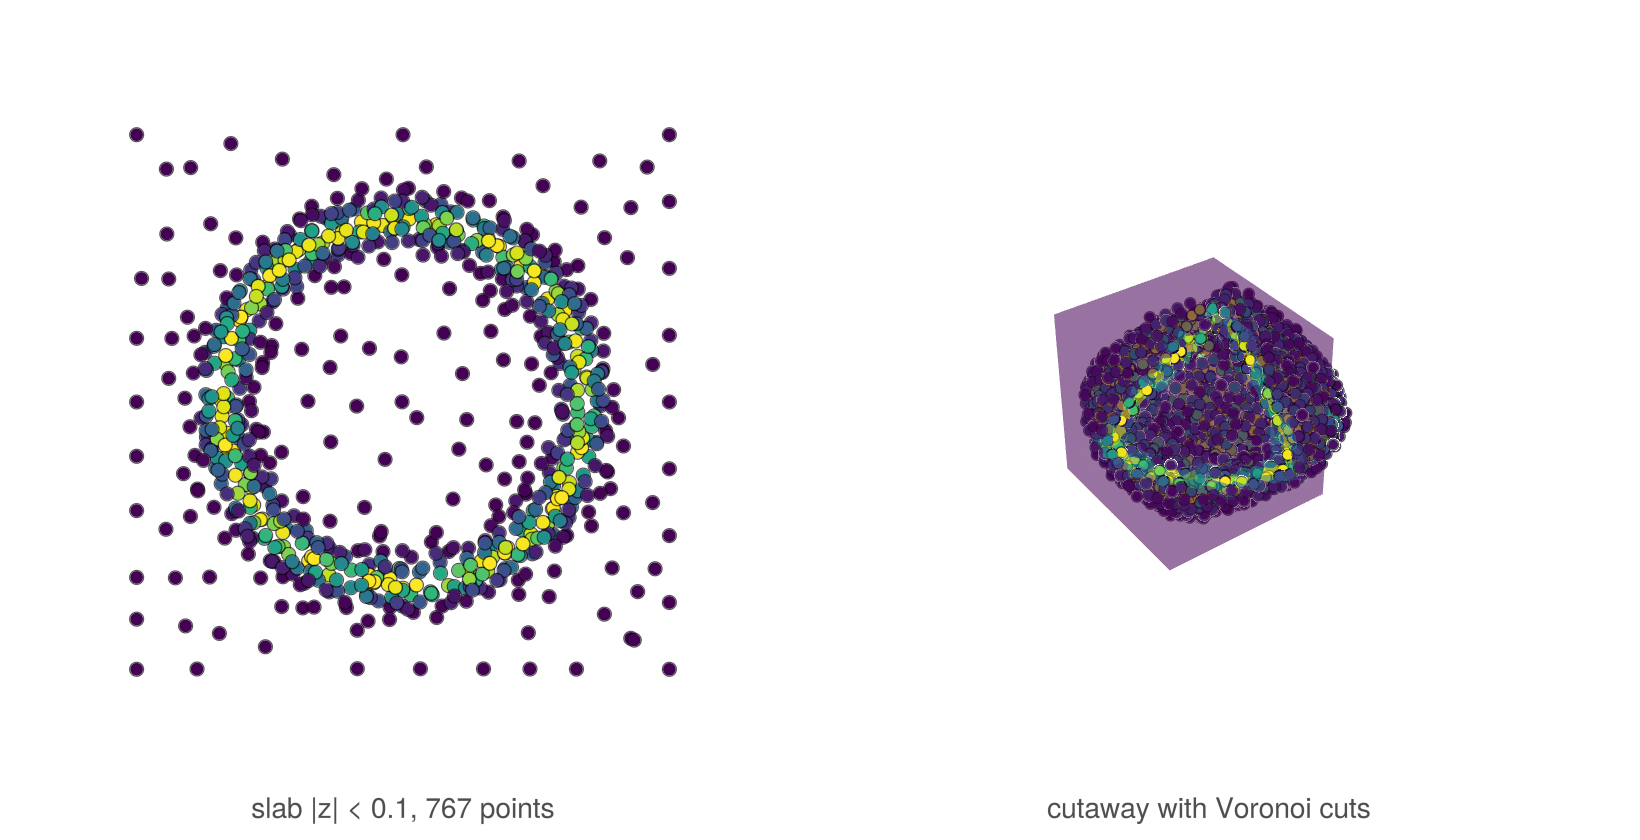
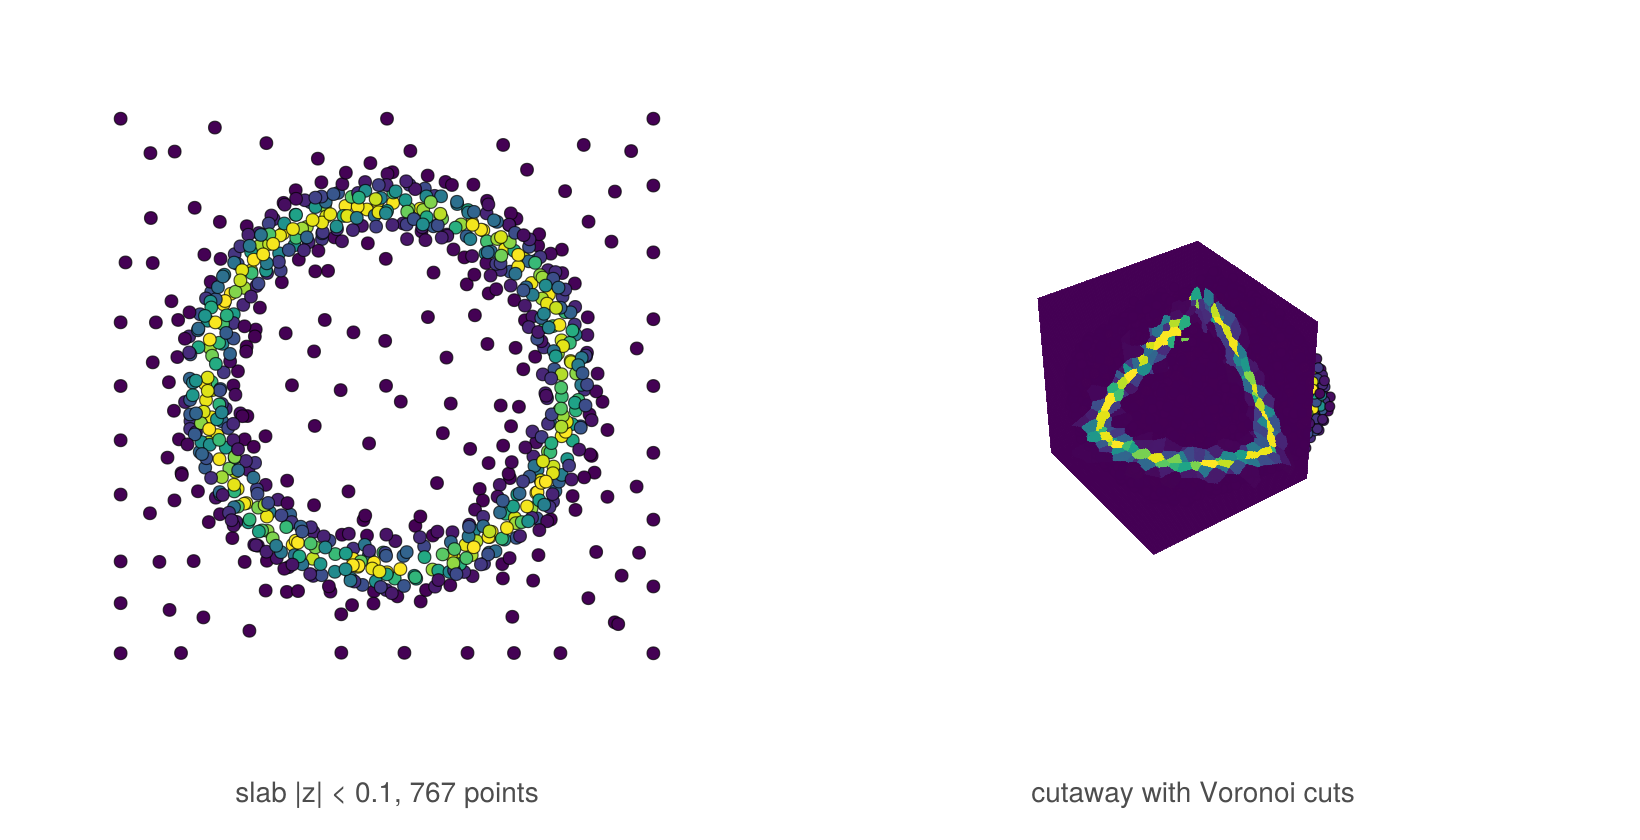
Render the shell example with CairoMakie; drop WGLMakie and Bonito
Claude-Session: https://claude.ai/code/session_01A7PP6smBjgNKfdahyqv1Nn

diff --git a/docs/src/learnernd.md b/docs/src/learnernd.md
@@ -29,7 +29,7 @@ cells = simplices(learner)    # index tuples of length N + 1 into data.points
 5000 samples of a thin spherical shell whose radius is modulated sinusoidally in the angles. The samples
 concentrate on the shell. Left: the samples in the slab ``|z| < 0.1``. Right: the octant facing the camera is
 cut open, and its three bounding planes are coloured by the value of the nearest sample (Voronoi cuts of the
-data). `examples/learnernd_shell.jl` produces the figure with WGLMakie.
+data). `examples/learnernd_shell.jl` produces the figure.
 
 ## Algorithm
 
